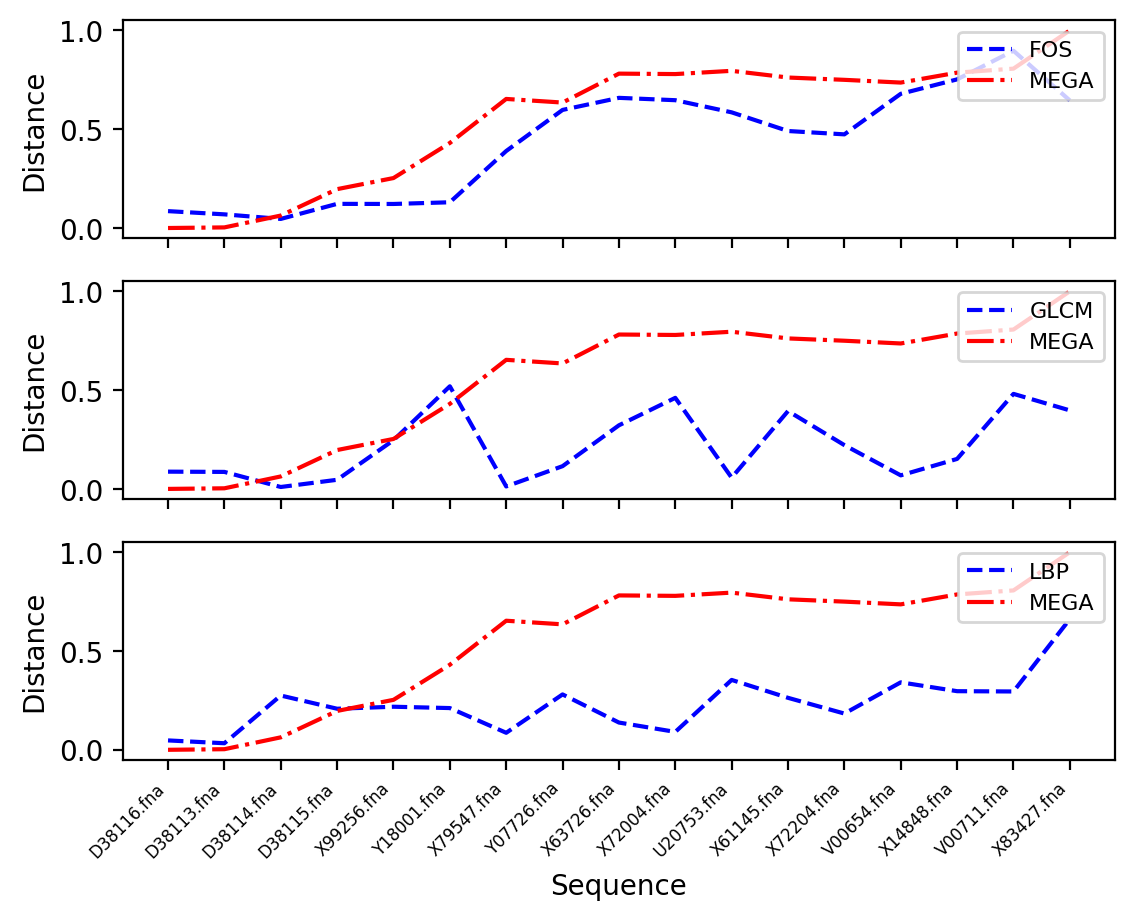
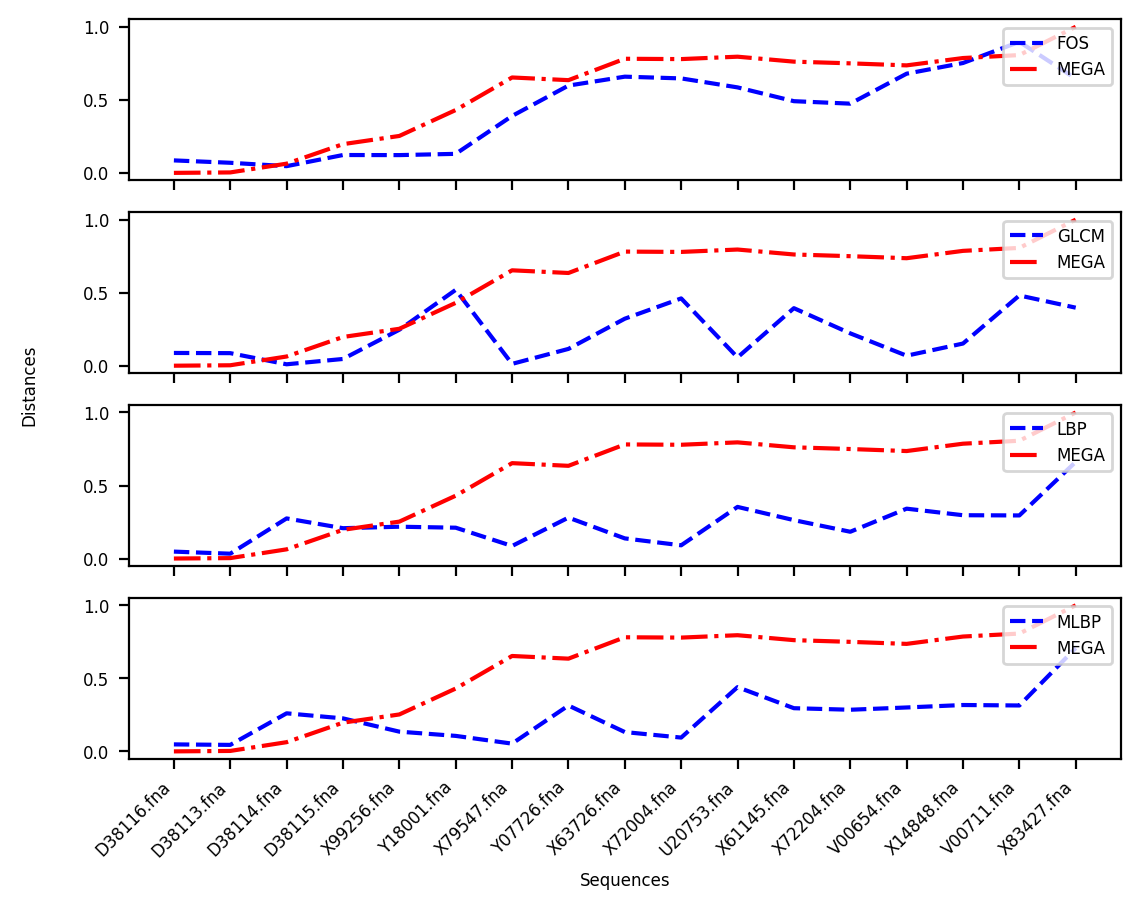
comparando los 3 alg y los trees

Changed region(s): [[0.0, 0.0, 0.9877, 0.9857], [0.0617, 0.9241, 0.0926, 0.9549]]

diff --git a/viral/alignment-free/process.py b/viral/alignment-free/process.py
@@ -21,8 +21,10 @@ import seaborn as sns
 from descriptor import get_features
 from descriptor import get_features_glcm
 from descriptor import get_features_lbp
+from descriptor import get_features_mlbp
 
 from ete3 import PhyloTree, TreeStyle
+from ete3 import Tree
 
 from skbio import DistanceMatrix
 from skbio.tree import nj
@@ -44,6 +46,7 @@ names    = [    'Escherichia coli', 'T.Thermophilus',       'B.Wakoensis',      
 csv_mega        = current_dir + "/sample_genomes/seqs_db1_distances.csv"
 seq_file_full   = current_dir + "/sample_genomes/seqs_db1.fasta"
 results_file    = current_dir + "/results/db1.png"
+path_netwick    = 'newick_db1'
 
 ###################################################################################################################################
 ###################################################################################################################################
@@ -59,6 +62,7 @@ names    = [    'Human',            'Macaca mulatta',       'Macaca fuscata',   
 csv_mega        = current_dir + "/sample_genomes/seqs_db2_distances.csv"
 seq_file_full   = current_dir + "/sample_genomes/seqs_db2.fasta"
 results_file    = current_dir + "/results/db2.png"
+path_netwick    = 'newick_db2'
 
 ###################################################################################################################################
 ###################################################################################################################################
@@ -76,6 +80,8 @@ names    = [    'Human',            'Pygmy chimpanzee',     'Common chimpanzee',
 csv_mega        = current_dir + "/sample_genomes/seqs_db3_distances.csv"
 seq_file_full   = current_dir + "/sample_genomes/seqs_db3.fasta"
 results_file    = current_dir + "/results/db3.png"
+path_netwick    = 'newick_db3'
+
 
 ###################################################################################################################################
 ###################################################################################################################################
@@ -83,6 +89,7 @@ results_file    = current_dir + "/results/db3.png"
 data_features = []
 data_features_glcm = []
 data_features_lbp = []
+data_features_mlbp = []
 
 f_out = open(seq_file_full, "w")
 
@@ -110,12 +117,16 @@ for sequence_file in sequences:
 
     hist_lbp = get_features_lbp(seq)
     data_features_lbp.append( hist_lbp )
+
+    hist_mlbp = get_features_mlbp(seq)
+    data_features_mlbp.append( hist_mlbp )
     #print([skewness, my_kurtosis, energy, entropy])
 f_out.close()
 
 data_features = np.array(data_features)
 data_features_glcm = np.array(data_features_glcm)
 data_features_lbp = np.array(data_features_lbp)
+data_features_mlbp = np.array(data_features_mlbp)
 #mean_seq = data_features[0]
 #data_features = data_features[1:data_features.shape[0]]
 #print(data_features)
@@ -180,7 +191,23 @@ distances_proposed_lbp  = DIST_proposed_lbp[0,1:DIST_proposed_lbp.shape[0]]
 ###################################################################################################################
 ###################################################################################################################
 
+####################################################################################
+# distance from MLBP
+DIST_proposed_mlbp = np.zeros((data_features_mlbp.shape[0], data_features_mlbp.shape[0]))
+for i in range(data_features_mlbp.shape[0]):
+    row = np.zeros(data_features_mlbp.shape[0])
+    for j in range(i, data_features_mlbp.shape[0]):
+        dist = np.sqrt(np.sum((data_features_mlbp[i] - data_features_mlbp[j])**2))
+        row[j] = dist    
+    DIST_proposed_mlbp[i] = row
 
+#copy the upper triangle to lower triangle in matrix
+DIST_proposed_mlbp = DIST_proposed_mlbp + DIST_proposed_mlbp.T - np.diag(np.diag(DIST_proposed_mlbp))
+
+DIST_proposed_mlbp = (DIST_proposed_mlbp - np.min(DIST_proposed_mlbp)) / (np.max(DIST_proposed_mlbp) - np.min(DIST_proposed_mlbp))
+distances_proposed_mlbp  = DIST_proposed_mlbp[0,1:DIST_proposed_mlbp.shape[0]]
+###################################################################################################################
+###################################################################################################################
 
 
 ###################################################################################################################
@@ -211,29 +238,40 @@ plt.clf()
 #plt.xticks(rotation=45, horizontalalignment='right', fontweight='light', fontsize=6 )
 #plt.legend(loc='upper right')
 
-fig, axs = plt.subplots(3)
+fig, axs = plt.subplots(4)
 axs[0].plot(names_temp, distances_proposed, 'b--', label='FOS')
 axs[0].plot(names_temp, distances_mega, 'r-.', label='MEGA')
-axs[0].legend(loc='upper right', fontsize=8)
+axs[0].legend(loc='upper right', fontsize=6)
 #axs[0].set_title('First order statistics')
 axs[1].plot(names_temp, distances_proposed_glcm, 'b--', label='GLCM')
 axs[1].plot(names_temp, distances_mega, 'r-.', label='MEGA')
-axs[1].legend(loc='upper right', fontsize=8)
+axs[1].legend(loc='upper right', fontsize=6)
 #axs[1].set_title('First order statistics')
 axs[2].plot(names_temp, distances_proposed_lbp, 'b--', label='LBP')
 axs[2].plot(names_temp, distances_mega, 'r-.', label='MEGA')
-axs[2].legend(loc='upper right', fontsize=8)
+axs[2].legend(loc='upper right', fontsize=6)
+#axs[1].set_title('First order statistics')
+axs[3].plot(names_temp, distances_proposed_mlbp, 'b--', label='MLBP')
+axs[3].plot(names_temp, distances_mega, 'r-.', label='MEGA')
+axs[3].legend(loc='upper right', fontsize=6)
 #axs[1].set_title('First order statistics')
 
-for ax in axs.flat:
-    ax.set(xlabel='Sequence', ylabel='Distance')
+
+#for ax in axs.flat:
+#    ax.set(xlabel='Sequence', ylabel='Distance', fontsize=6)
+plt.xlabel('Sequences', fontsize=6)
+#plt.ylabel('Distances', fontsize=6)
 
 # Hide x labels and tick labels for top plots and y ticks for right plots.
 for ax in axs.flat:
     ax.label_outer()
+    ax.yaxis.set_tick_params(labelsize=6)
+#plt.tick_params(axis='both', which='minor', labelsize=6)
 
 plt.xticks(rotation=45, horizontalalignment='right', fontweight='light', fontsize=6 )
 
+#fig.text(0.5, 0.04, 'Sequence', ha='center')
+fig.text(0.04, 0.5, 'Distances', va='center', rotation='vertical', fontsize=6 )
 
 plt.savefig( results_file, dpi = 200, bbox_inches='tight')
 
@@ -244,19 +282,85 @@ plt.savefig( results_file, dpi = 200, bbox_inches='tight')
 
 dm = DistanceMatrix(DIST_proposed, sequences)
 tree = nj(dm)
-print(tree.ascii_art())
-newick_str = nj(dm, result_constructor=str)
-print(newick_str)
-#print(newick_str[:55], "...")
-t = PhyloTree(newick_str)
+#print(tree.ascii_art())
+newick_str_fos = nj(dm, result_constructor=str)
+t = PhyloTree(newick_str_fos)
+f = open(current_dir + "/results/" + path_netwick + "/fos.txt", "w")
+f.write(newick_str_fos)
+f.close()
+#t.show()
+
+dm = DistanceMatrix(DIST_proposed_glcm, sequences)
+tree = nj(dm)
+#print(tree.ascii_art())
+newick_str_glcm = nj(dm, result_constructor=str)
+t = PhyloTree(newick_str_glcm)
+f = open(current_dir + "/results/" + path_netwick + "/glcm.txt", "w")
+f.write(newick_str_glcm)
+f.close()
+#t.show()
+
+dm = DistanceMatrix(DIST_proposed_lbp, sequences)
+tree = nj(dm)
+#print(tree.ascii_art())
+newick_str_lbp = nj(dm, result_constructor=str)
+t = PhyloTree(newick_str_lbp)
+f = open(current_dir + "/results/" + path_netwick + "/lbp.txt", "w")
+f.write(newick_str_lbp)
+f.close()
+#t.show()
+
+dm = DistanceMatrix(DIST_proposed_mlbp, sequences)
+tree = nj(dm)
+#print(tree.ascii_art())
+newick_str_mlbp = nj(dm, result_constructor=str)
+t = PhyloTree(newick_str_mlbp)
+f = open(current_dir + "/results/" + path_netwick + "/mlbp.txt", "w")
+f.write(newick_str_mlbp)
+f.close()
 #t.show()
 
 dm = DistanceMatrix(DIST_mega, sequences)
 tree = nj(dm)
 print(tree.ascii_art())
-newick_str = nj(dm, result_constructor=str)
-print(newick_str)
-#print(newick_str[:55], "...")
-t = PhyloTree(newick_str)
+newick_str_mega = nj(dm, result_constructor=str)
+t = PhyloTree(newick_str_mega)
+f = open(current_dir + "/results/" + path_netwick + "/mega.txt", "w")
+f.write(newick_str_lbp)
+f.close()
 #t.show()
 
+
+
+t1 = Tree(newick_str_mega)
+t2 = Tree(newick_str_fos)
+t3 = Tree(newick_str_glcm)
+t4 = Tree(newick_str_lbp)
+t5 = Tree(newick_str_mlbp)
+#print(t1.robinson_foulds(t2, unrooted_trees=True))
+rf_fos, rf_max_fos, *_  = t1.robinson_foulds(t2, unrooted_trees=True)
+rf_glcm, rf_max_glcm, *_  = t1.robinson_foulds(t3, unrooted_trees=True)
+rf_lbp, rf_max_lbp, *_  = t1.robinson_foulds(t4, unrooted_trees=True)
+rf_mlbp, rf_max_mlbp, *_  = t1.robinson_foulds(t5, unrooted_trees=True)
+print ("RF distance is %s over a total of %s" %(rf_fos, rf_max_fos))
+print ("RF distance is %s over a total of %s" %(rf_glcm, rf_max_glcm))
+print ("RF distance is %s over a total of %s" %(rf_lbp, rf_max_lbp))
+print ("RF distance is %s over a total of %s" %(rf_mlbp, rf_max_mlbp))
+
+# distances first dataset
+#RF distance is 14 over a total of 20
+#RF distance is 18 over a total of 20
+#RF distance is 18 over a total of 20
+#RF distance is 12 over a total of 20
+
+# distances second dataset
+#RF distance is 12 over a total of 18
+#RF distance is 18 over a total of 18
+#RF distance is 18 over a total of 18
+#RF distance is 16 over a total of 18
+
+# distances third dataset
+#RF distance is 14 over a total of 30
+#RF distance is 30 over a total of 30
+#RF distance is 30 over a total of 30
+#RF distance is 26 over a total of 30

diff --git a/viral/alignment-free/descriptor.py b/viral/alignment-free/descriptor.py
@@ -187,6 +187,33 @@ def get_features_lbp(seq):
     #print(lbp)
     return np.array(hist)
 
+def get_features_mlbp(seq):
+    feature_vector = bases2number(seq, 2)
+    #print(feature_vector.shape)
+    p = 6
+    result = []
+    for z in range(2,p+1):
+        lbp = []
+        for t, x in enumerate(feature_vector):
+            temp = 0
+            p=z
+            for i in range( int(p/2) ):
+                if t + i - p/2 >= 0 and t + i + 1 < feature_vector.shape[0]:
+                    temp = sign( feature_vector[t + i - int(p/2)] - feature_vector[t])*(2**i)  + sign( feature_vector[t + i + 1] - feature_vector[t])*(2**(i+int(p/2))) 
+
+            lbp.append(temp)
+        
+
+        # histogram
+        lbp_max = np.max(lbp)
+        exponential = math.ceil(math.log(lbp_max, 2))
+        bins = [2**i for i in range(exponential + 1)]
+        hist, bins = np.histogram(lbp, bins=bins)
+   
+        result = np.hstack((result, hist))
+
+    return np.array(result)
+
 if __name__ == "__main__" :
 
 
@@ -198,6 +225,6 @@ if __name__ == "__main__" :
     for record in sequences:
         data.append(record.seq.upper())
     seq = data[0]
-
-    print(get_features_lbp(seq).shape)
+    print(get_features_lbp(seq))
+    print(get_features_mlbp(seq))
     

diff --git a/viral/alignment-free/histogram.py b/viral/alignment-free/histogram.py
@@ -17,7 +17,7 @@ from Bio import SeqIO
 import pandas as pd
 import seaborn as sns
 
-
+current_dir = os.path.dirname(os.path.abspath(__file__))
 
 def contrast_stretching(img):
     a = 0
@@ -60,8 +60,8 @@ def base_intensity(bases, G):
 ##############################################################################
 # read fasta file 3
 data = []
-#fa_file = "sample_genomes/KP317497.fna"
-fa_file = "sample_genomes/NR_117152.fna"
+fa_file = "sample_genomes/KP317497.fna"
+#fa_file = "sample_genomes/NR_117152.fna"
 sequences = SeqIO.parse(fa_file, "fasta")
 for record in sequences:
     data.append(record.seq.upper())
@@ -125,6 +125,7 @@ hist = np.array(hist)
 #df.plot('x', 'y', kind='scatter')
 #sns.distplot(hist, bins=bins, kde=False, rug=True);
 sns.barplot(x=G, y=hist)
+plt.savefig( current_dir + "/results/histogram.png" , dpi = 200, bbox_inches='tight')
 ##############################################################################
 ##############################################################################
 
